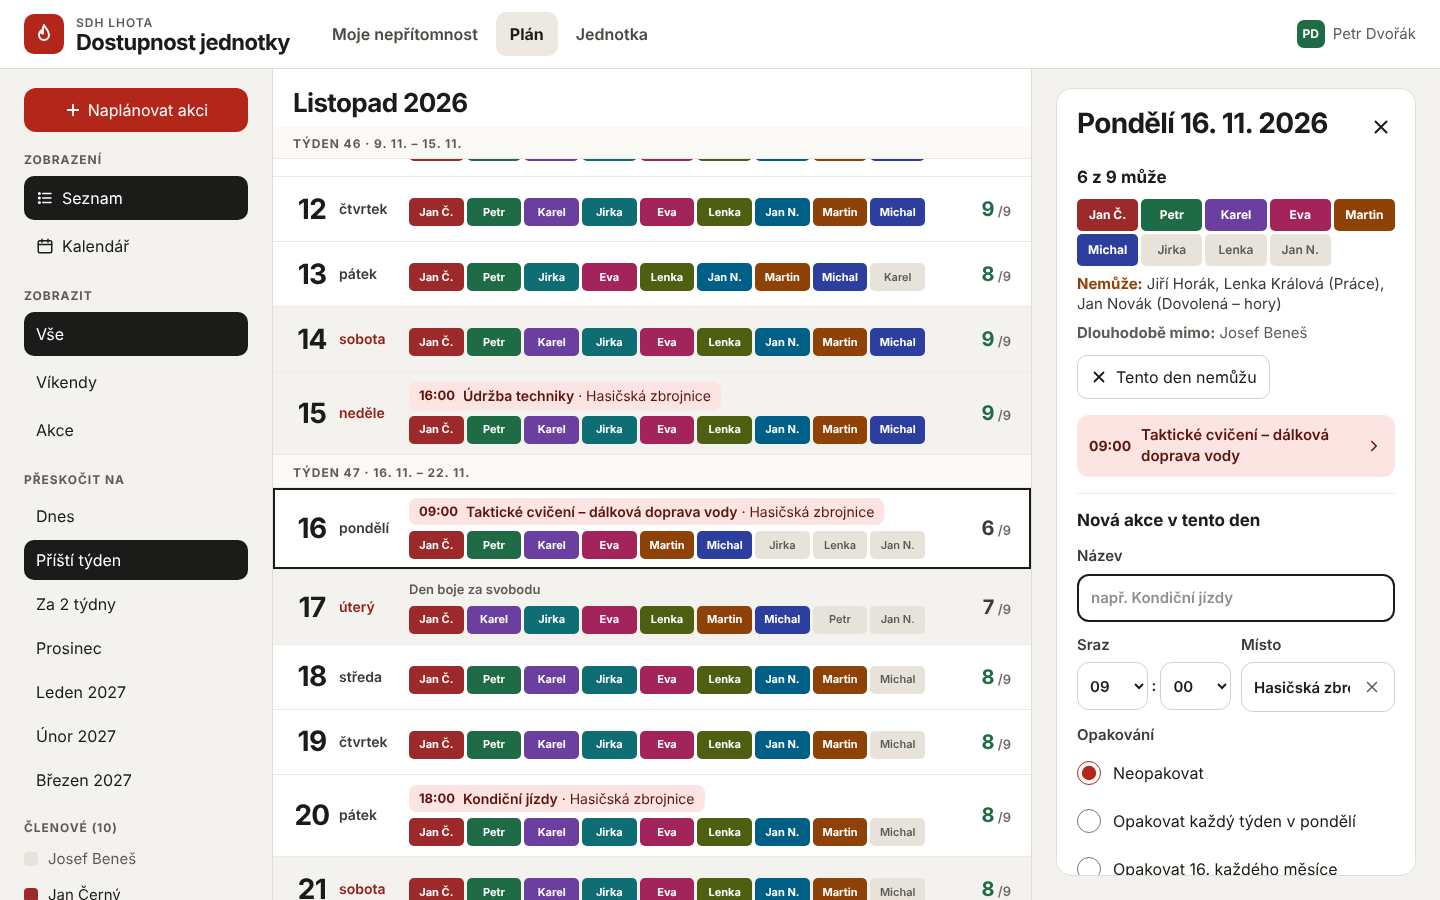
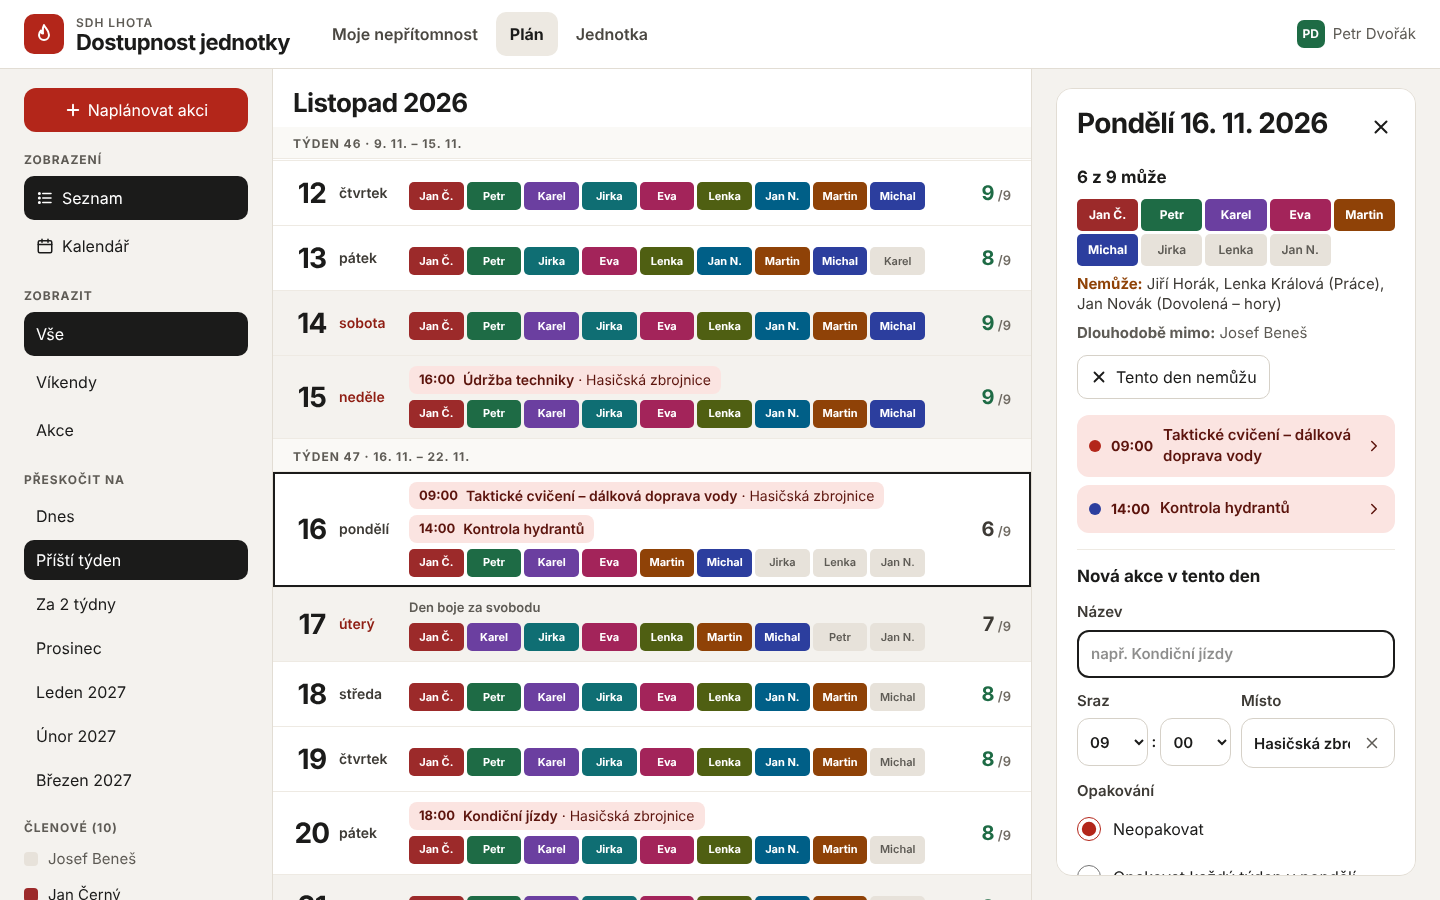
Calendar: split the circle into one colour per activity
A day with more activities shows the filled circle as equal slices, one colour
each (by time; the first is the usual red). The activity names in desktop
calendar cells and in the day panel get a dot in the matching colour. The demo
has a day with two activities; README, HANDOVER and screenshots updated.

Claude-Session: https://claude.ai/code/session_01Tw2HyHYmKH6eg7kEzs7mtr

diff --git a/src/lib/components/CalendarView.svelte b/src/lib/components/CalendarView.svelte
@@ -1,4 +1,5 @@
 <script lang="ts">
+	import { eventColor } from '#lib/colors.js';
 	import { data } from '#lib/data.svelte.js';
 	import {
 		addDays,
@@ -58,6 +59,13 @@
 	let headBox = $state<ResizeObserverSize[]>();
 	const headH = $derived(headBox?.[0]?.blockSize ?? 0);
 
+	/** Filled circle: one colour, or equal slices clockwise from the top. */
+	function eventFill(n: number) {
+		if (n <= 1) return `background: ${eventColor(0)}`;
+		const stops = Array.from({ length: n }, (_, i) => `${eventColor(i)} ${(i * 100) / n}% ${((i + 1) * 100) / n}%`);
+		return `background: conic-gradient(${stops.join(', ')})`;
+	}
+
 	function ringColor(n: number, total: number) {
 		const r = n / total;
 		return r >= 0.8 ? 'var(--color-good)' : r >= 0.6 ? 'var(--color-ink-2)' : 'var(--color-warn)';
@@ -105,10 +113,11 @@
 			</svg>
 			<span
 				class="absolute inset-[14%] flex items-center justify-center rounded-full text-[0.9375rem] font-bold {evs.length
-					? 'bg-accent text-white'
+					? 'text-white'
 					: wd >= 5 || hol
 						? 'bg-weekend text-accent-dark'
-						: ''}">{parseKey(key).getDate()}</span
+						: ''}"
+				style={evs.length ? eventFill(evs.length) : undefined}>{parseKey(key).getDate()}</span
 			>
 		</span>
 		<!-- Wide screens have room for the holiday, the count and the events' names. -->
@@ -118,10 +127,13 @@
 		<span class="hidden text-xs font-semibold text-muted lg:block"
 			>{av.available.length}/{av.total}</span
 		>
-		{#each evs.slice(0, 2) as ev (ev.id)}
+		{#each evs.slice(0, 2) as ev, i (ev.id)}
 			<span
-				class="hidden w-full truncate rounded-md bg-event px-1 text-left text-xs font-semibold text-event-ink lg:block"
-				>{ev.time ? `${ev.time} ` : ''}{ev.title}</span
+				class="hidden w-full items-center gap-1 rounded-md bg-event px-1 text-left text-xs font-semibold text-event-ink lg:flex"
+				>{#if evs.length > 1}<span
+						class="size-2 shrink-0 rounded-full"
+						style="background: {eventColor(i)}"
+					></span>{/if}<span class="truncate">{ev.time ? `${ev.time} ` : ''}{ev.title}</span></span
 			>
 		{/each}
 		{#if evs.length > 2}

diff --git a/src/lib/components/DayPanel.svelte b/src/lib/components/DayPanel.svelte
@@ -1,5 +1,6 @@
 <script lang="ts">
 	import { access } from '#lib/access.svelte.js';
+	import { eventColor } from '#lib/colors.js';
 	import { data } from '#lib/data.svelte.js';
 	import { formatLong, holiday, type DateKey } from '#lib/dates.js';
 	import { toasts } from '#lib/toast.svelte.js';
@@ -96,11 +97,17 @@
 
 	{#if events.length}
 		<section class="flex flex-col gap-2">
-			{#each events as ev (ev.id)}
+			{#each events as ev, i (ev.id)}
 				<a
 					href="/akce/{ev.id}"
 					class="flex min-h-12 items-center gap-2.5 rounded-xl bg-event px-3 py-2.5 text-event-ink"
 				>
+					<!-- Matches this activity's slice of the day's circle in the calendar. -->
+					{#if events.length > 1}<span
+							class="size-3 shrink-0 rounded-full"
+							style="background: {eventColor(i)}"
+							aria-hidden="true"
+						></span>{/if}
 					{#if ev.time}<span class="text-sm font-bold">{ev.time}</span>{/if}
 					<span class="min-w-0 flex-1 text-[0.9375rem] leading-snug font-semibold">{ev.title}</span>
 					<Icon name="chevronRight" size={18} />

diff --git a/src/lib/colors.ts b/src/lib/colors.ts
@@ -23,6 +23,17 @@ export const PALETTE = [
 ];
 
 /**
+ * One colour per activity of a day (by time) in the calendar, so two activities show as
+ * two halves of the day's circle. The first is the usual red; all carry white text and
+ * differ from the availability ring colours.
+ */
+export const EVENT_COLORS = ['#B3261A', '#2C3E9E', '#7D2E8E', '#0F6E73'];
+
+export function eventColor(i: number): string {
+	return EVENT_COLORS[i % EVENT_COLORS.length];
+}
+
+/**
  * Colour for a new member: the first palette colour no active member uses.
  * Archived members don't count, so their colours get recycled. With more
  * members than colours, the least-used colour is shared.

diff --git a/src/lib/demo.ts b/src/lib/demo.ts
@@ -64,6 +64,7 @@ export function demoData(count = 10): {
 			note: ''
 		},
 		{ id: 'e2', title: 'Kondiční jízdy', date: d(14), time: '18:00', place: 'Hasičská zbrojnice', note: '' },
+		{ id: 'e6', title: 'Kontrola hydrantů', date: d(10), time: '14:00', place: '', note: '' },
 		{ id: 'e4', title: 'Kondiční jízdy', date: d(-7), time: '18:00', place: 'Hasičská zbrojnice', note: '' },
 		{ id: 'e5', title: 'Školení první pomoci', date: d(-20), time: '18:30', place: 'Klubovna', note: '' },
 		{ id: 'e3', title: 'Školení dýchací techniky', date: d(22), time: '18:30', place: 'Klubovna', note: '' }

diff --git a/src/routes/+page.svelte b/src/routes/+page.svelte
@@ -583,6 +583,12 @@
 				>
 				<span class="flex items-center gap-1.5"><span class="size-3.5 rounded-full bg-accent"></span>akce</span>
 				<span class="flex items-center gap-1.5"
+					><span
+						class="size-3.5 rounded-full"
+						style="background: conic-gradient(var(--color-accent) 0 50%, #2C3E9E 50% 100%)"
+					></span>2 akce</span
+				>
+				<span class="flex items-center gap-1.5"
 					><span class="size-3.5 rounded-full border border-line bg-weekend"></span>víkend a svátek</span
 				>
 			{:else}

diff --git a/HANDOVER.md b/HANDOVER.md
@@ -103,7 +103,9 @@ direction; older rows are superseded.
     (Mon–Sun columns, one block per month, sticky month + weekday heading) over
     the same `start`/`end` range, infinite scroll and jump buttons as the list.
     Each day is a circle whose SVG ring fills with available/total (full ring =
-    everyone; colour like the count); event days have a filled red circle,
+    everyone; colour like the count); event days have a filled circle: red
+    for one event, equal conic slices for more (by time; `colors.EVENT_COLORS`; the
+    event names in desktop cells and in the day panel get a dot in their colour),
     today is outlined, past days dimmed; weekends and public holidays have a
     tinted inner circle and red number (the holiday's name on desktop). Desktop cells also show the count and
     up to two event names. The Vše/Víkendy/Akce filter applies to the list only.

diff --git a/README.md b/README.md
@@ -56,7 +56,9 @@ posouvání plánu.
 **Kalendář.** Přepínačem **Seznam / Kalendář** nahoře se plán ukáže jako běžný měsíční
 kalendář (dny v týdnu ve sloupcích, týdny v řádcích, měsíce pod sebou). Kruh kolem
 každého dne ukazuje, kolik lidí může: celý kruh = všichni, půlka = polovina. Dny s akcí
-mají červené kolečko, dnešek je v rámečku. Víkendy a státní svátky mají podbarvený
+mají červené kolečko; když je v jeden den víc akcí, kolečko se rozdělí na díly a každá
+akce má svou barvu (stejná barevná tečka je u názvu akce v přehledu dne). Dnešek je
+v rámečku. Víkendy a státní svátky mají podbarvený
 vnitřek kroužku a červené číslo, na počítači je u svátku i jeho název. Klepnutím na den se otevře jeho přehled.
 Telefon si zvolené zobrazení zapamatuje.
 
